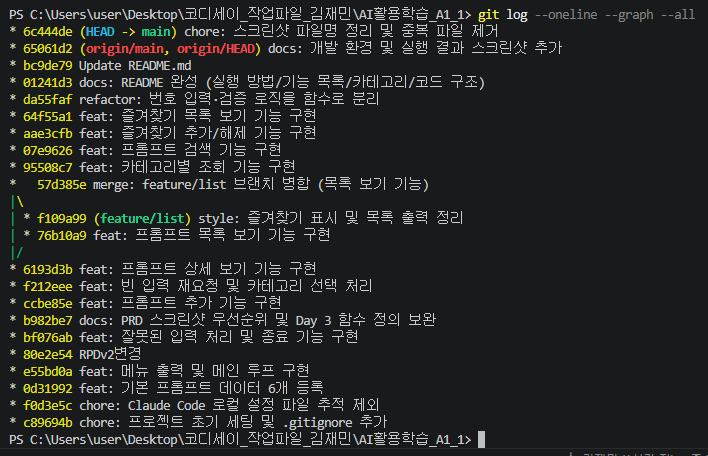
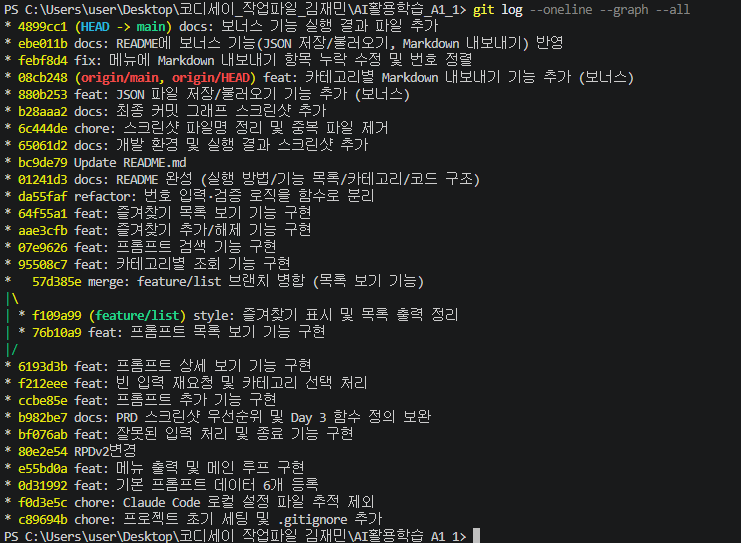
미완커밋들완수

diff --git a/prompt_manager.py b/prompt_manager.py
@@ -394,17 +394,17 @@ def show_menu():
     print("\n" + "=" * 40)
     print("        📌 프롬프트 관리 프로그램")
     print("=" * 40)
-    print("  1. 프롬프트 추가")
-    print("  2. 프롬프트 목록 보기")
-    print("  3. 카테고리별 조회")
-    print("  4. 프롬프트 검색")
-    print("  5. 프롬프트 상세 보기")
-    print("  6. 즐겨찾기 추가/해제")
+    print(" 1. 프롬프트 추가")
+    print(" 2. 프롬프트 목록 보기")
+    print(" 3. 카테고리별 조회")
+    print(" 4. 프롬프트 검색")
+    print(" 5. 프롬프트 상세 보기")
+    print(" 6. 즐겨찾기 추가/해제")
     print("  7. 즐겨찾기 목록 보기")
     print("-" * 40)
     print("  8. JSON 파일로 저장")
     print("  9. JSON 파일에서 불러오기")
-    print(" 10. 카테고리별 Markdown 내보내기")
+    print(" 10. Markdown 파일로 내보내기")
     print("-" * 40)
     print("  0. 종료")
     print("=" * 40)

diff --git a/prompt_manager_PRD_v2.md b/prompt_manager_PRD_v2.md
@@ -307,10 +307,22 @@ def get_categories(prompts):
 ### 4.4 즐겨찾기 표시
 
 - 표기: 즐겨찾기 O → `⭐`, X → 공백 또는 `-`
-- ✅ **인코딩 확인 완료 (2026-08-11 / Python 3.14.6 / 본 PC)**
-  `python -c "print('⭐ 상태 확인')"` → 파이프 리다이렉션 상황에서도 정상 출력됨.
-  → **`⭐`를 그대로 사용해도 된다.** 폴백(`[★]`, `[*]`) 불필요.
-- 단, VSCode 터미널 폰트에 따라 네모로 보일 수 있으므로 **스크린샷 찍기 전 눈으로 한 번 확인**할 것.
+- ⚠ **터미널에 따라 갈린다 (2026-08-11 실측)**
+
+| 터미널 | 결과 |
+|--------|------|
+| PowerShell / VSCode 기본 터미널 | ✅ 정상 출력 |
+| Git Bash (stdout=cp949) | ❌ `UnicodeEncodeError: 'cp949' codec can't encode character '⭐'` → **프로그램 중단** |
+
+- **대응**: 파일 상단에 stdout을 UTF-8로 고정한다. 이러면 어느 터미널에서도 안전하다.
+
+```python
+import sys
+sys.stdout.reconfigure(encoding="utf-8")
+```
+
+- 채점자가 어떤 터미널에서 실행할지 모르므로 이 한 줄은 넣는 편이 안전하다.
+- 파일 쓰기는 `encoding="utf-8"`을 명시하므로 애초에 영향 없다.
 
 ---
 
